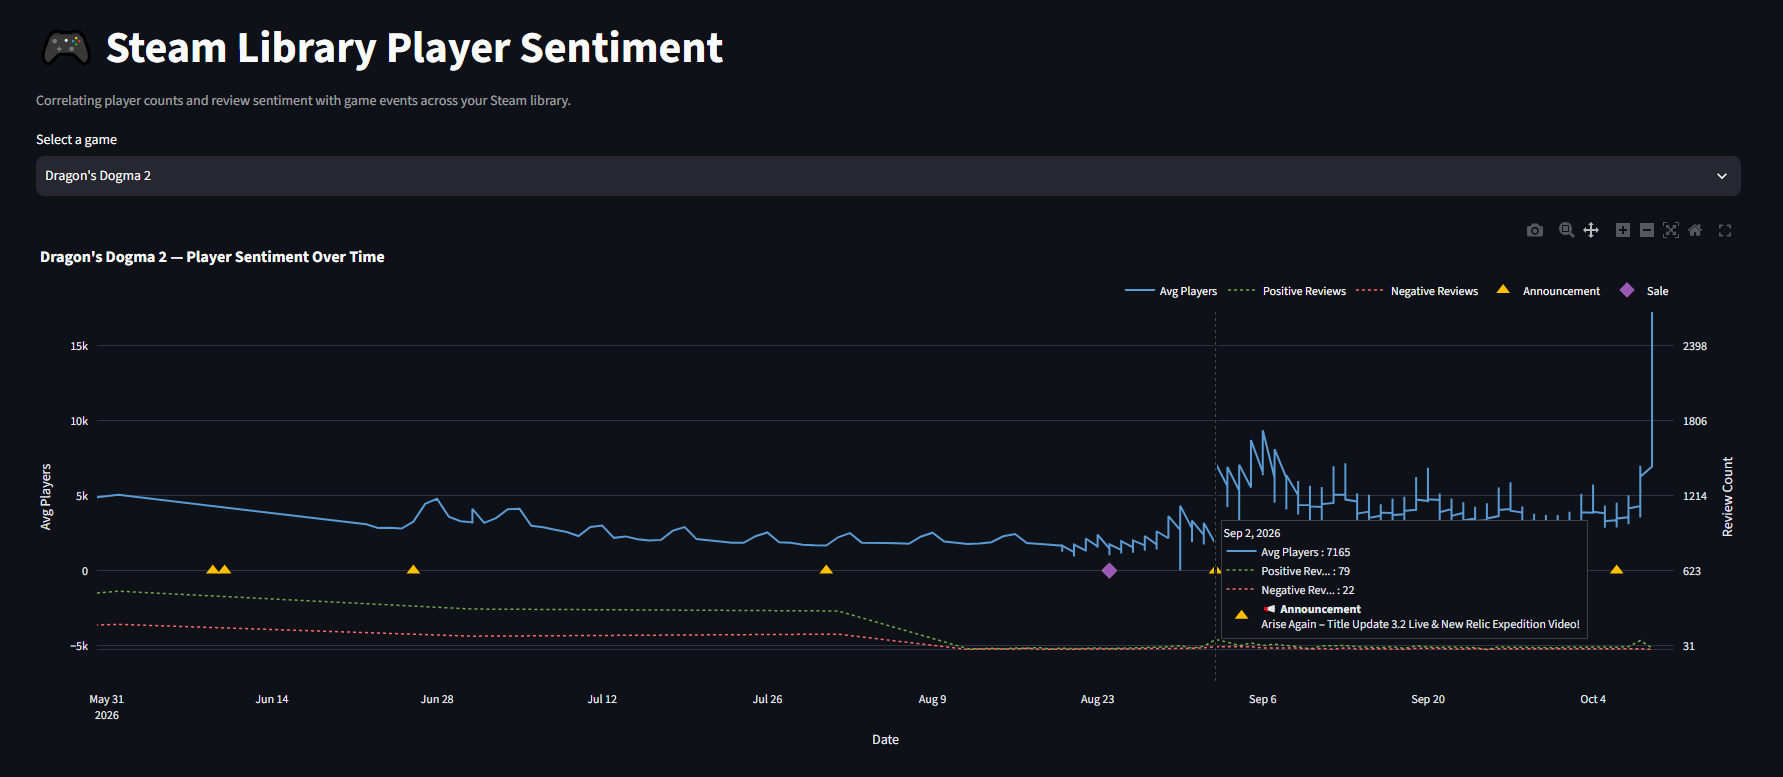
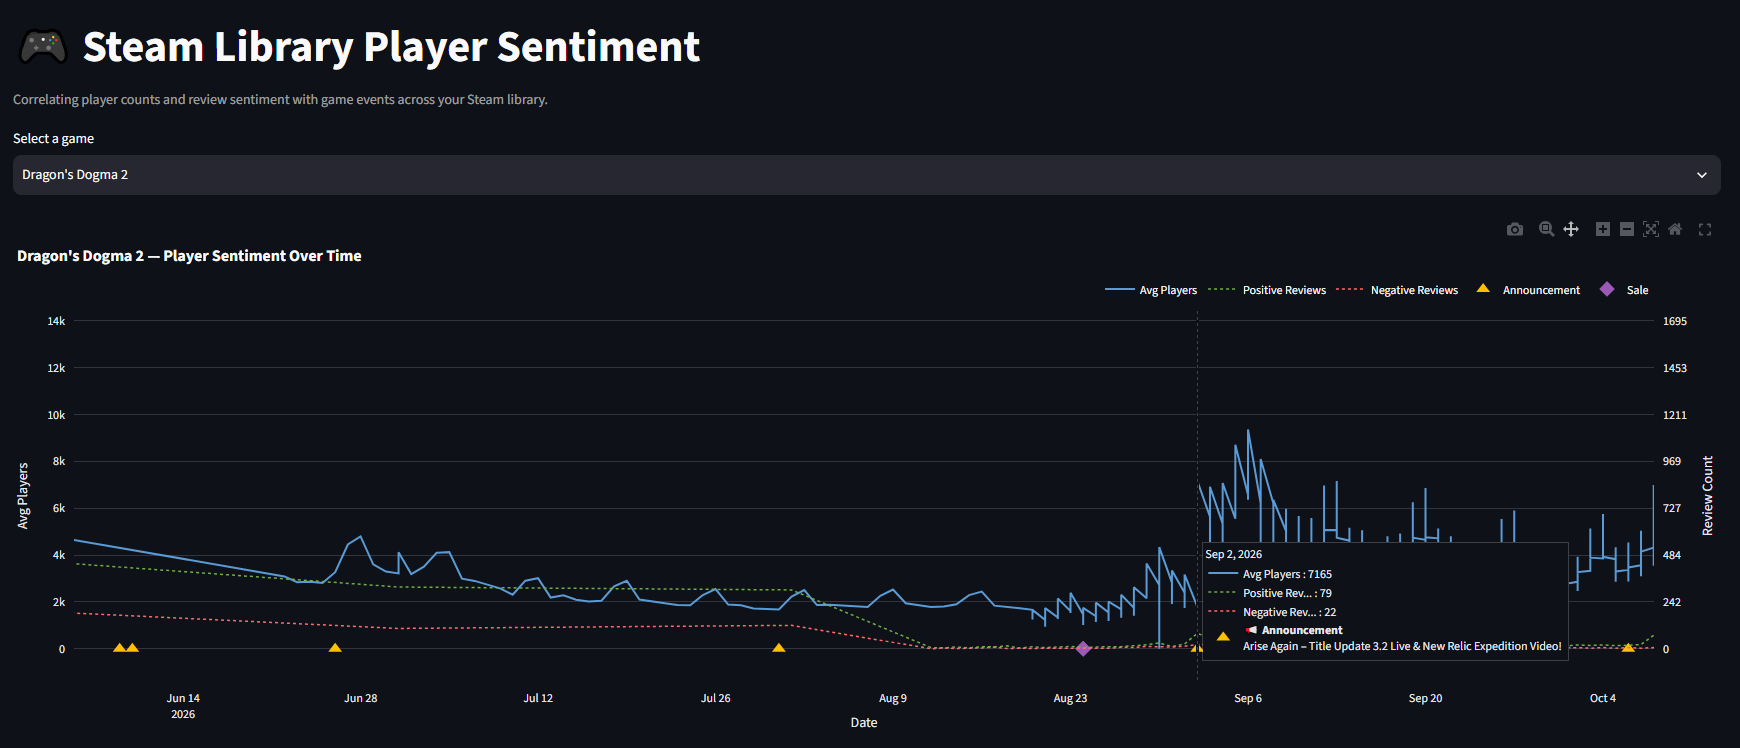
v1.0.1.r
Updated documentation accordingly after fixing dashboard code.

diff --git a/ReadMe.md b/ReadMe.md
@@ -2,6 +2,8 @@
 
 >**Dashboard Link: https://steamlibrarysentiment-dashboard.streamlit.app/
 
+![Sample Dashboard Screenshot|691](./Doc/dashboardscreenshot.png)
+
 An ELT data pipeline designed to analyze consumer sentiment (review spikes and active player counts) in response to game events (patch releases, major announcements, and historical sales).
 
 ---
@@ -230,10 +232,7 @@ Both orchestration layers provide out-of-the-box failure notifications. EventBri
 - Free-to-play games are excluded from price history tracking. ITAD does not maintain deal history for games with no purchase price. These games still appear in the pipeline's game list but are silently skipped during ITAD enrichment.
 - Most delisted games, playtests, and technical test builds are filtered at library ingestion to prevent API errors on unavailable store pages.
 - SteamCharts does not track all games. Titles with very low player counts or older releases may have no data, and are skipped gracefully.
-
-![Sample Dashboard Screenshot|691](./Doc/dashboardscreenshot.png)
-
-- The dashboard chart uses a dual y-axis to display player counts (left) and review counts (right) on the same timeline. Due to the significant difference in scale between the two metrics, Plotly’s automatic axis scaling can cause review lines to appear below the zero baseline visually, even though all review values are positive. This is a rendering artifact of the dual-axis layout and does not reflect incorrect data. A future improvement would be separate charts per metric or normalized scaling.
+- ~~The dashboard chart uses a dual y-axis to display player counts (left) and review counts (right) on the same timeline. Due to the significant difference in scale between the two metrics, Plotly’s automatic axis scaling can cause review lines to appear below the zero baseline visually, even though all review values are positive. This is a rendering artifact of the dual-axis layout and does not reflect incorrect data. A future improvement would be separate charts per metric or normalized scaling.
 
 **Scaling & Debugging Notes:**
 
